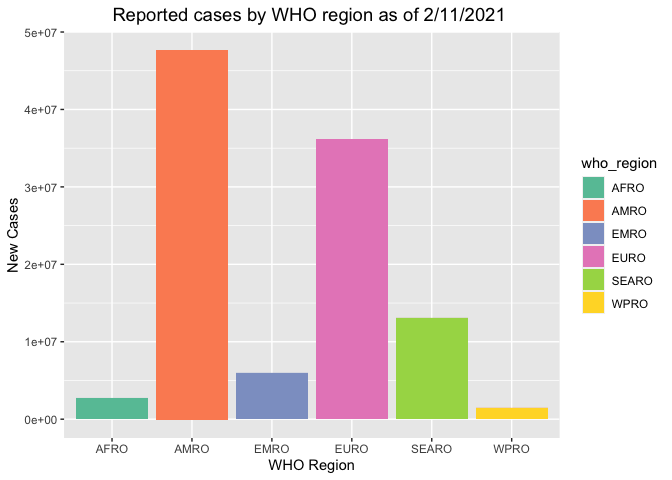
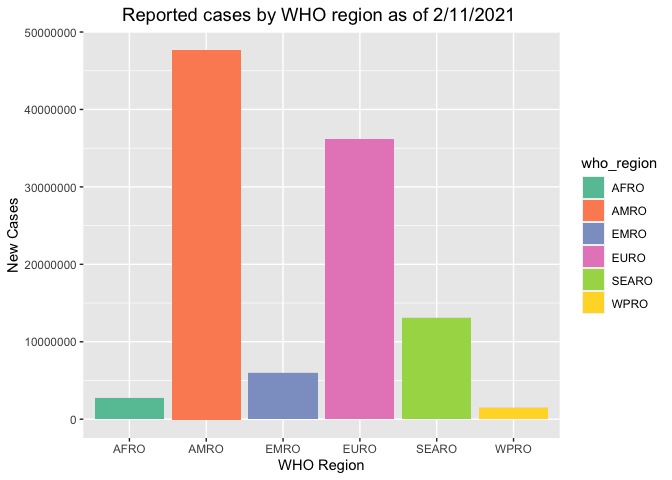
scientific notation fix

diff --git a/Our-Data-Analysis.html b/Our-Data-Analysis.html
@@ -796,7 +796,8 @@ arrange(desc(new_cases))</code></pre>
 <div id="comparing-new-cases-in-different-who-regions" class="section level3">
 <h3>Comparing New Cases in different WHO regions</h3>
 <p><font size="3" color="blue">TThe WHO divides the world into 6 regions: African Region (AFRO), Region of the Americas (AMRO), South-East Asian Region (SEAR), the European Region (EURO), the Eastern Mediterranean Region (EMRO), and the Western Pacific Region (WPRO).</font></p>
-<pre class="r"><code>covid%&gt;%
+<pre class="r"><code>options(scipen=999) 
+covid%&gt;%
   group_by(who_region)%&gt;%
   filter(who_region!=&quot;Other&quot;)%&gt;%
   select(date_reported, new_cases, who_region)%&gt;%
@@ -837,7 +838,8 @@ arrange(desc(new_deaths))</code></pre>
 <h2><strong>New Deaths</strong></h2>
 <div id="how-new-deaths-on-02-11-2021-compare-in-the-top-5-countries" class="section level3">
 <h3>How New Deaths on 02-11-2021 Compare in the Top 5 Countries</h3>
-<pre class="r"><code>covid%&gt;%
+<pre class="r"><code>options(scipen=999) 
+covid%&gt;%
   filter(country==&quot;United States of America&quot;| country==&quot;Mexico&quot;| country==&quot;Brazil&quot; |country==&quot;The United Kingdom&quot;| country==&quot;Germany&quot;)%&gt;%
   filter(date_reported==&quot;2021-02-11&quot;)%&gt;%
   ggplot(aes(x=date_reported, y=new_deaths, group=country, fill=country))+
@@ -852,7 +854,8 @@ arrange(desc(new_deaths))</code></pre>
 </div>
 <div id="comparing-new-deaths-by-different-who-regions" class="section level3">
 <h3>Comparing New Deaths by different WHO regions</h3>
-<pre class="r"><code>covid%&gt;%
+<pre class="r"><code>options(scipen=999) 
+covid%&gt;%
   group_by(who_region)%&gt;%
   filter(who_region!=&quot;Other&quot;)%&gt;%
   select(date_reported, new_deaths, who_region)%&gt;%

diff --git a/Our-Shiny-App.html b/Our-Shiny-App.html
@@ -269,22 +269,9 @@ $(document).ready(function () {
 <p>This Shiny App shows how amounts of COVID-19 cases have changed from the beginning of the pandemic to more recently.</p>
 <hr />
 <p>This is the code we used:</p>
-<pre class="r"><code>library(tidyverse)</code></pre>
-<pre><code>## ── Attaching packages ─────────────────────────────────────── tidyverse 1.3.0 ──</code></pre>
-<pre><code>## ✓ ggplot2 3.3.3     ✓ purrr   0.3.4
-## ✓ tibble  3.1.0     ✓ dplyr   1.0.4
-## ✓ tidyr   1.1.2     ✓ stringr 1.4.0
-## ✓ readr   1.4.0     ✓ forcats 0.5.1</code></pre>
-<pre><code>## ── Conflicts ────────────────────────────────────────── tidyverse_conflicts() ──
-## x dplyr::filter() masks stats::filter()
-## x dplyr::lag()    masks stats::lag()</code></pre>
-<pre class="r"><code>library(janitor)</code></pre>
-<pre><code>## 
-## Attaching package: &#39;janitor&#39;</code></pre>
-<pre><code>## The following objects are masked from &#39;package:stats&#39;:
-## 
-##     chisq.test, fisher.test</code></pre>
-<pre class="r"><code>library(shiny)
+<pre class="r"><code>library(tidyverse)
+library(janitor)
+library(shiny)
 library(shinydashboard)</code></pre>
 <pre><code>## 
 ## Attaching package: &#39;shinydashboard&#39;</code></pre>

diff --git a/Our-Shiny-App.md b/Our-Shiny-App.md
@@ -15,41 +15,7 @@ This is the code we used:
 
 ```r
 library(tidyverse)
-```
-
-```
-## ── Attaching packages ─────────────────────────────────────── tidyverse 1.3.0 ──
-```
-
-```
-## ✓ ggplot2 3.3.3     ✓ purrr   0.3.4
-## ✓ tibble  3.1.0     ✓ dplyr   1.0.4
-## ✓ tidyr   1.1.2     ✓ stringr 1.4.0
-## ✓ readr   1.4.0     ✓ forcats 0.5.1
-```
-
-```
-## ── Conflicts ────────────────────────────────────────── tidyverse_conflicts() ──
-## x dplyr::filter() masks stats::filter()
-## x dplyr::lag()    masks stats::lag()
-```
-
-```r
 library(janitor)
-```
-
-```
-## 
-## Attaching package: 'janitor'
-```
-
-```
-## The following objects are masked from 'package:stats':
-## 
-##     chisq.test, fisher.test
-```
-
-```r
 library(shiny)
 library(shinydashboard)
 ```

diff --git a/Our-Data-Analysis.md b/Our-Data-Analysis.md
@@ -451,6 +451,7 @@ covid%>%
 
 
 ```r
+options(scipen=999) 
 covid%>%
   group_by(who_region)%>%
   filter(who_region!="Other")%>%
@@ -505,6 +506,7 @@ arrange(desc(new_deaths))
 
 
 ```r
+options(scipen=999) 
 covid%>%
   filter(country=="United States of America"| country=="Mexico"| country=="Brazil" |country=="The United Kingdom"| country=="Germany")%>%
   filter(date_reported=="2021-02-11")%>%
@@ -527,6 +529,7 @@ covid%>%
 
 
 ```r
+options(scipen=999) 
 covid%>%
   group_by(who_region)%>%
   filter(who_region!="Other")%>%
